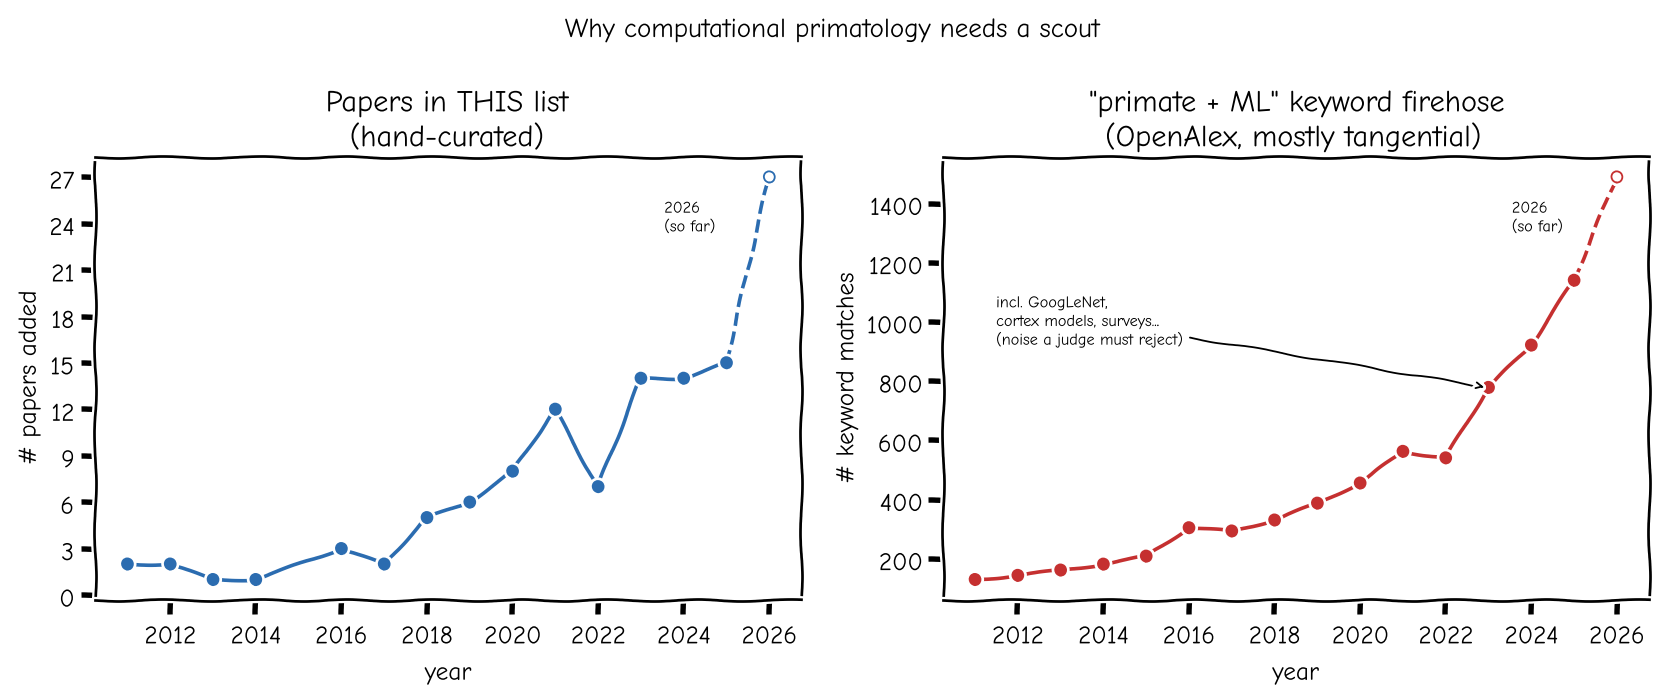
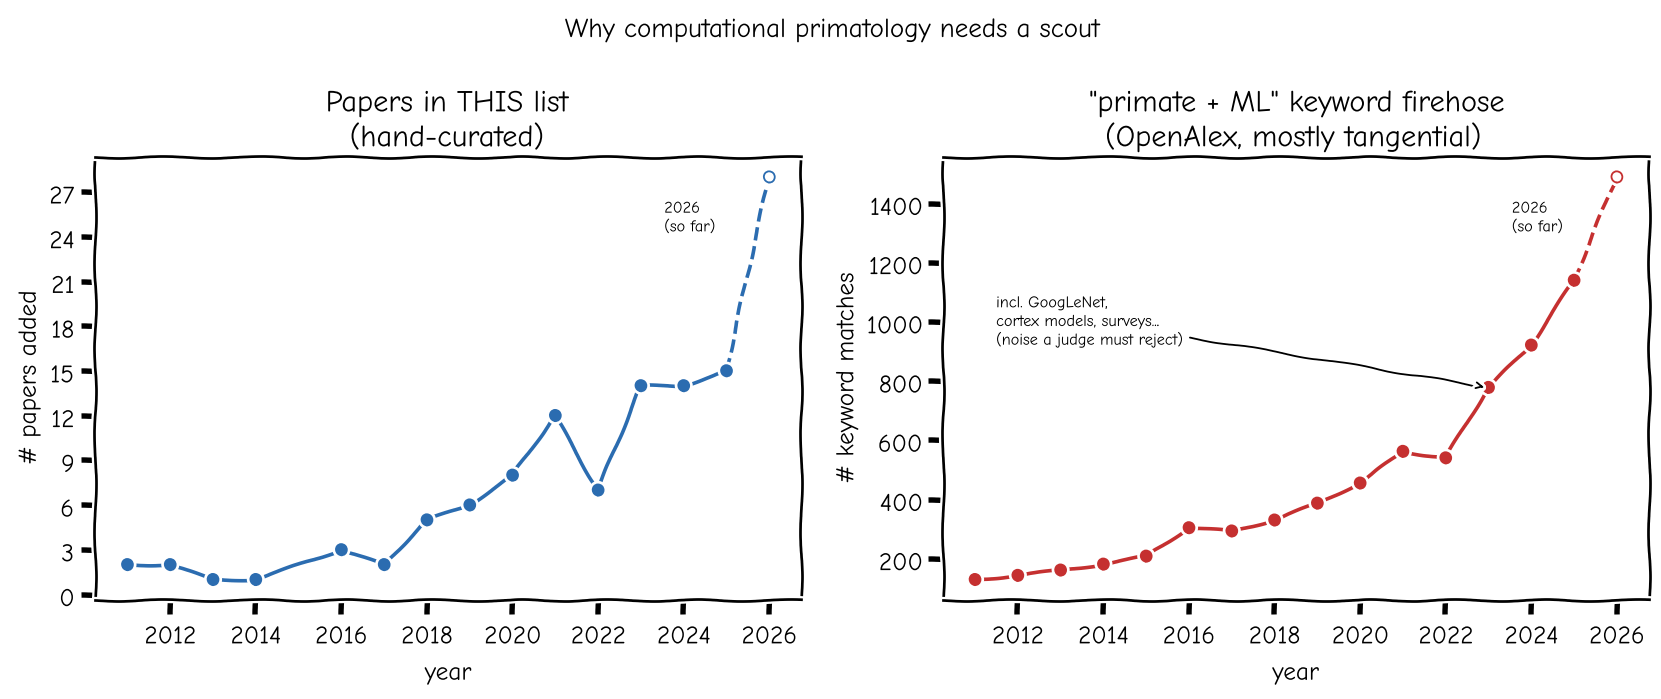
Add TaxonRL and update Nolting et al. (#75)
* Add TaxonRL; fill in the Nolting et al. row

TaxonRL (WACV 2026) — hierarchical RL for fine-grained verification. Two of its
four eval domains are primate: ChimpFace and the Gorilla-SPAC-Wild body subset.

Nolting et al. went in link-only, so added the code link, the dataset size and
an O tag (it's an interpretability study, not a Re-ID method).

Badge 111 -> 112; index.html regenerated.

* TaxonRL: tag FR, SI (RL in the legend is for RL-driven behavior/control, not the training method)

---------

diff --git a/index.html b/index.html
@@ -709,10 +709,10 @@
                 <p class="subtitle">A curated list of machine learning research for non-human primatology</p>
 
                 <div class="stat-strip" aria-label="Collection statistics">
-                    <span><strong id="total-papers">112</strong> papers</span>
+                    <span><strong id="total-papers">113</strong> papers</span>
                     <span><strong id="years-span">15</strong> years</span>
-                    <span><strong id="with-code">24</strong> with code</span>
-                    <span><strong id="with-data">26</strong> with data</span>
+                    <span><strong id="with-code">26</strong> with code</span>
+                    <span><strong id="with-data">27</strong> with data</span>
                 </div>
                 <img class="growth-plot" src="https://raw.githubusercontent.com/KordingLab/awesome-computational-primatology/main/docs/assets/paper_growth_xkcd.png" alt="Computational primatology papers per year: this curated list vs. the broader 'primate + ML' literature" style="max-width: 720px; width: 100%; margin: 1.25rem auto 0; display: block;">
             </div>
@@ -877,11 +877,11 @@
     <tr>
       <td>2026</td>
       <td><a href="https://doi.org/10.48550/arXiv.2609.06020">Nolting et al.</a></td>
-      <td>FR</td>
+      <td>FR, O</td>
       <td>Gorilla</td>
+      <td><a href="https://github.com/alexandraschild/bio-concepts">Code only</a></td>
       <td>N/A</td>
-      <td>N/A</td>
-      <td>N/A</td>
+      <td>45,232 images (132 individuals)</td>
     </tr>
     <tr>
       <td>2026</td>
@@ -945,6 +945,15 @@
       <td><a href="https://github.com/Virtual-Humans-Lab/HowlerApp">Yes</a></td>
       <td>N/A</td>
       <td>N/A</td>
+    </tr>
+    <tr>
+      <td>2026</td>
+      <td><a href="https://doi.org/10.1109/wacv61042.2026.00245">TaxonRL</a></td>
+      <td>FR, SI</td>
+      <td>Cross-species</td>
+      <td><a href="https://github.com/max-vkl/TaxonRL">Code only</a></td>
+      <td><a href="https://huggingface.co/maxvonk">Yes</a></td>
+      <td>184,070 primate pairs (198 individuals)</td>
     </tr>
     <tr>
       <td>2026</td>
@@ -1830,7 +1839,7 @@
                 <i class="fas fa-robot"></i>
                 <div class="chat-header-text">
                     <h4>Paper Assistant</h4>
-                    <p>Ask questions about 112 papers</p>
+                    <p>Ask questions about 113 papers</p>
                 </div>
             </div>
             <div class="chat-messages" id="chatMessages">

diff --git a/README.md b/README.md
@@ -1,7 +1,7 @@
 # [Awesome Computational Primatology](https://kordinglab.com/awesome-computational-primatology/)
 
 [![Awesome](https://awesome.re/badge.svg)](https://awesome.re)
-[![Papers](https://img.shields.io/badge/Papers-112-blue)](https://github.com/KordingLab/awesome-computational-primatology#projects)
+[![Papers](https://img.shields.io/badge/Papers-113-blue)](https://github.com/KordingLab/awesome-computational-primatology#projects)
 [![PRs Welcome](https://img.shields.io/badge/PRs-welcome-brightgreen.svg)](https://github.com/KordingLab/awesome-computational-primatology/blob/main/CONTRIBUTING.md)
 [![Last Updated](https://img.shields.io/github/last-commit/KordingLab/awesome-computational-primatology?label=last%20updated)](https://github.com/KordingLab/awesome-computational-primatology/commits/main)
 
@@ -76,7 +76,7 @@ By sharing your datasets and models, you contribute to advancing primatology and
 | 2026 | [Pajiyar et al.](https://doi.org/10.65091/icicset.v3i1.105) | PD | Macaque | N/A | N/A | 10,886 images |
 | 2026 | [Qitout et al.](https://doi.org/10.1007/978-3-032-39518-4_20) | BPE | NHP | N/A | N/A | N/A |
 | 2026 | [Yang et al.](https://doi.org/10.7554/elife.110932) | FD, FR | Marmoset | [Code only](https://github.com/Jy-Yang-bot/real-time-marmoset-recognition) | N/A | N/A |
-| 2026 | [Nolting et al.](https://doi.org/10.48550/arXiv.2609.06020) | FR | Gorilla | N/A | N/A | N/A |
+| 2026 | [Nolting et al.](https://doi.org/10.48550/arXiv.2609.06020) | FR, O | Gorilla | [Code only](https://github.com/alexandraschild/bio-concepts) | N/A | 45,232 images (132 individuals) |
 | 2026 | [PanAf-SBR](https://doi.org/10.48550/arXiv.2607.17399) | PD, BR | Apes | N/A | N/A | 100 videos / 36,063 frames |
 | 2026 | [PanLep300 (Murray et al.)](https://doi.org/10.48550/arXiv.2607.17395) | PD, O | Chimp | N/A | N/A | 303 videos / 125,670 crops |
 | 2026 | [MacAction](https://doi.org/10.1371/journal.pbio.3003880) | AM, 3D BPE | Macaque | [Yes](https://github.com/martinivis/MacAction) | N/A | N/A |
@@ -84,6 +84,7 @@ By sharing your datasets and models, you contribute to advancing primatology and
 | 2026 | [APG-DynaFFNet](https://doi.org/10.1016/j.array.2026.101079) | 2D BPE | Cross-species | N/A | N/A | N/A |
 | 2026 | [Beyond Humans](https://doi.org/10.48550/arXiv.2606.09353) | FR | Cross-species | N/A | N/A | N/A |
 | 2026 | [Schneider et al.](https://doi.org/10.48550/arXiv.2607.01396) | PD | Howler monkey | [Yes](https://github.com/Virtual-Humans-Lab/HowlerApp) | N/A | N/A |
+| 2026 | [TaxonRL](https://doi.org/10.1109/wacv61042.2026.00245) | FR, SI | Cross-species | [Code only](https://github.com/max-vkl/TaxonRL) | [Yes](https://huggingface.co/maxvonk) | 184,070 primate pairs (198 individuals) |
 | 2026 | [BigMaQ](https://doi.org/10.48550/arXiv.2602.19874) | BPE, BR, AM | Macaque | N/A | N/A | N/A |
 | 2026 | [TMacaque-FaceNet](https://doi.org/10.3390/ani16071107) | FD, FR | Tibetan macaques | N/A | N/A | 3,385 images |
 | 2026 | [Deep in the Jungle](https://doi.org/10.48550/arXiv.2601.22917) | PD, O | Chimpanzee | N/A | N/A | N/A |
